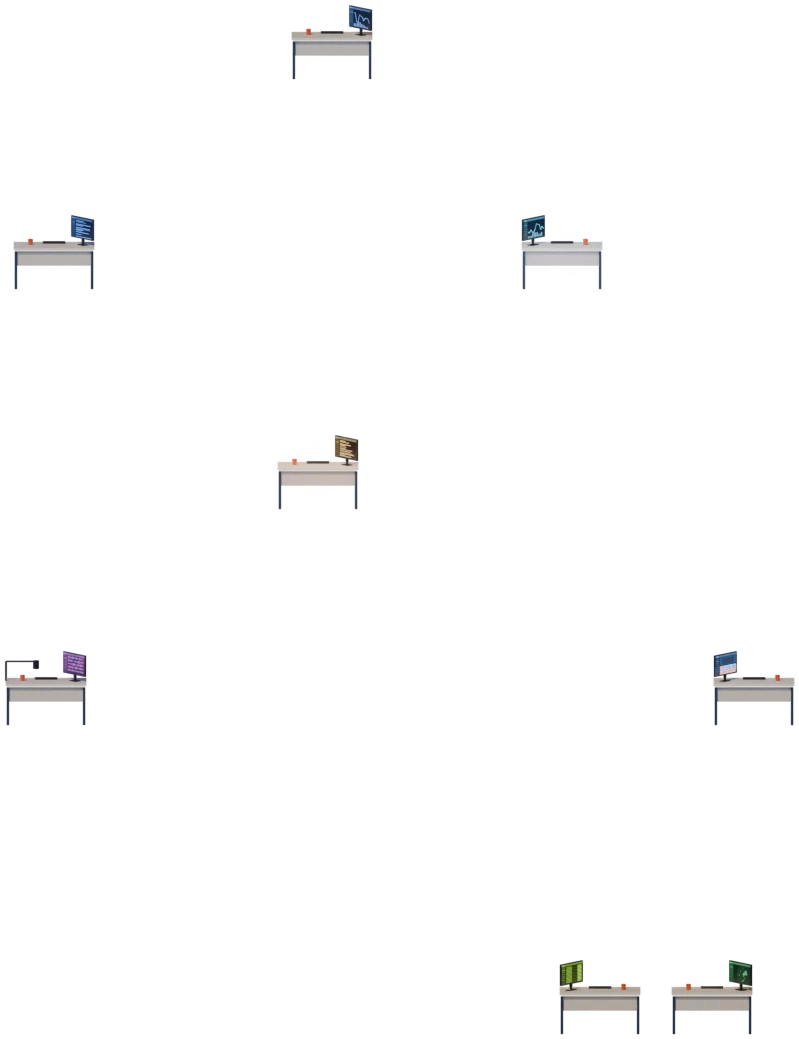
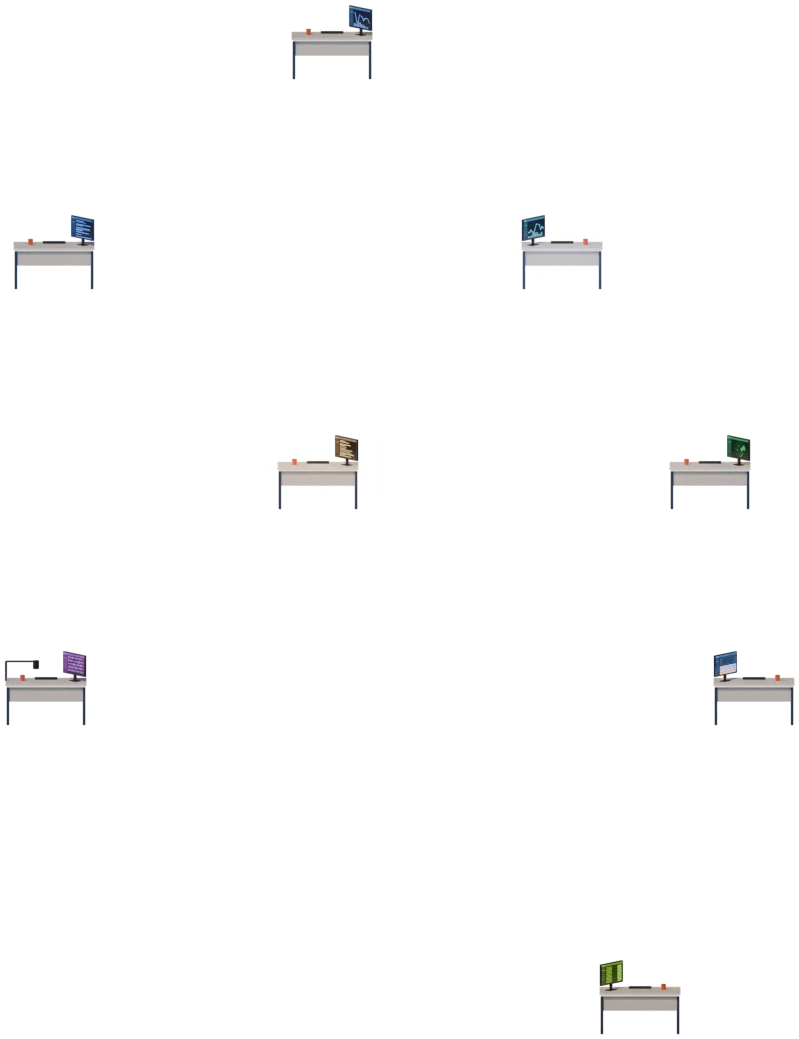
Every department its own office, in its own colour
L3 splits into Research (blue) and Fact Check (terracotta), L2 into Content (wood) and Distribution (teal, Vera's desk and the release radar), S2 is Treasury alone (burgundy). Each room has a lit department sign. The backend layout gains factcheck_room and moves publish_desk to floor 2; the fact-check stage walks to its own room. 746 backend and 82 frontend tests pass; the server needs a restart to serve the new zones.

Changed region(s): [[0.6909, 0.924, 0.9612, 1.0], [0.8411, 0.4004, 0.9612, 0.4928]]

diff --git a/frontend/src/office_state.js b/frontend/src/office_state.js
@@ -20,7 +20,7 @@ const STAGE_ZONES = {
   DISCOVERY: 'director_suite',
   IDEA_SELECTION: 'director_suite',
   RESEARCH: 'research_lab',
-  FACT_CHECK: 'research_lab',
+  FACT_CHECK: 'factcheck_room',
   SCRIPTING: 'script_room',
   HOOK_OPTIMIZATION: 'script_room',
   STORYBOARD: 'script_room',

diff --git a/art-source/blender/hq/hq_building.py b/art-source/blender/hq/hq_building.py
@@ -345,6 +345,14 @@ def cove(mb, x0px, x1px, level, mat, drop=0.5, back=BACK):
     mb.box(X(x0px), X(x1px), back - 0.12, back - 0.02, z - 0.035, z, mat)
 
 
+def room_sign(coll, glow, label, x0px, level, mat, accent):
+    """A small lit sign at the top of a room's back wall, naming the department that works there."""
+    z = wz(FLOORS[level][1] + 24)
+    key = label.lower().replace(" ", "_")
+    glow.box(X(x0px), X(x0px) + 0.08, BACK - 0.06, BACK - 0.02, z - 0.04, z + 0.5, emissive(f"sign_bar_{key}", accent, 5.0))
+    text(coll, label, X(x0px) + 0.26, BACK - 0.07, z + 0.42, 0.5, mat["label_text"], spacing=1.12, name=f"room_sign_{key}", face="bold")
+
+
 def room_rect(zone_id, x0px, x1px, level, name):
     f = FLOORS[level]
     ANCHORS["rooms"][zone_id] = {"x": x0px, "y": f[1], "w": x1px - x0px, "h": f[0] - f[1], "level": level, "name": name}
@@ -568,14 +576,19 @@ def build_l4(rooms, props, leaves, pots, fronts, glow, lights, back, shell_c, ma
 
 def build_l3(rooms, props, leaves, pots, fronts, glow, lights, back, shell_c, mat):
     lv = 3
-    room_rect("research_lab", 517, 1205, lv, "L3 Research")
+    room_rect("research_lab", 517, 862, lv, "L3 Research")
+    room_rect("factcheck_room", 868, 1205, lv, "L3 Fact Check")
     wall = principled("wall_l3", "#4b5a88", rough=0.85)
     floor = principled("floor_l3", "#2a2c3c", rough=0.35)
-    room_shell(rooms, 517, 1205, lv, wall, floor)
+    room_shell(rooms, 517, 862, lv, wall, floor)
+    room_shell(rooms, 862, 1205, lv, principled("wall_l3_factcheck", "#8a4f3a", rough=0.85), principled("floor_l3_factcheck", "#3a2a24", rough=0.35))
+    rooms.box(X(862), X(868), -0.2, BACK + 0.2, fz(lv), cz(lv), mat["frame"])
     label_panel(rooms, shell_c, lv, "L3", "RESEARCH", mat)
+    room_sign(shell_c, glow, "RESEARCH", 527, lv, mat, "#60a5fa")
+    room_sign(shell_c, glow, "FACT CHECK", 878, lv, mat, "#fb923c")
     f = fz(lv)
-    downlight_fixtures(glow, (560, 650, 770, 860, 960, 1060, 1150), lv, mat)
-    spot_row(lights, (560, 650, 770, 860, 960, 1060, 1150), lv, "#f0f2ff", 220, cone=58, blend=0.5, tilt=26)
+    downlight_fixtures(glow, (560, 650, 760, 845, 900, 990, 1080, 1160), lv, mat)
+    spot_row(lights, (560, 650, 760, 845, 900, 990, 1080, 1160), lv, "#f0f2ff", 220, cone=58, blend=0.5, tilt=26)
     light(lights, "AREA", (X(860), 0.4, cz(lv) - 0.9), 110.0, "#c8d0ff", radius=9.0, rot=(math.radians(35), 0, 0), name="l3_fill")
     plant(leaves, pots, X(530), 1.6, f, 0.9, mat["leaf"], mat["pot_white"], pot_h=0.32, pot_r=0.15, n=12, seed=31)
     bookshelf(props, X(537), X(587), 1.85, 2.35, f, f + 1.8, mat["wood_dark"], mat["books"], shelves=5, seed=3)
@@ -594,28 +607,29 @@ def build_l3(rooms, props, leaves, pots, fronts, glow, lights, back, shell_c, ma
         props.box(X(xp), X(xp + 14), 1.8, 2.3, f, f + 0.95, principled("tower_pc", "#1b1c22", rough=0.4))
         glow.box(X(xp + 4), X(xp + 5), 1.79, 1.8, f + 0.7, f + 0.85, emissive("pc_led_blue", "#60a5fa", 8.0))
     cork = principled("cork", "#8a6a44", rough=0.9)
-    props.box(X(772), X(877), BACK - 0.06, BACK - 0.02, wz(247), wz(207), mat["wood_dark"])
-    props.front_quad(X(775), X(874), wz(245), wz(209), BACK - 0.065, cork)
+    props.box(X(745), X(850), BACK - 0.06, BACK - 0.02, wz(247), wz(207), mat["wood_dark"])
+    props.front_quad(X(748), X(847), wz(245), wz(209), BACK - 0.065, cork)
     rng = random.Random(7)
     paper = emissive("paper", "#efe9dc", 0.6)
     pin_ink = principled("pin_ink", "#3b4a66", rough=0.6)
     for r in range(2):
         for c in range(3):
-            x0 = 782 + c * 31 + rng.uniform(-2, 2)
+            x0 = 755 + c * 31 + rng.uniform(-2, 2)
             z1 = wz(213 + r * 17)
             props.front_quad(X(x0), X(x0 + 22), z1 - M(12), z1, BACK - 0.07, paper)
             # the notes carry lines of writing, as the picture's pinboard does
             for li in range(3):
                 zl = z1 - M(3) - li * M(3)
                 props.box(X(x0 + 3), X(x0 + 3 + rng.uniform(10, 17)), BACK - 0.076, BACK - 0.072, zl - 0.02, zl, pin_ink)
-    top2 = back_desk(props, 770, 975, lv, mat)
+    top_r = back_desk(props, 770, 850, lv, mat)
+    props.box(X(790), X(830), 1.9, 2.25, top_r, top_r + 0.18, mat["white"])
+    top2 = back_desk(props, 880, 975, lv, mat)
     for cx, scr in ((905, "screen_cyan"), (933, "screen_cyan_chart")):
         monitor(props, X(cx), 2.05, top2, M(24), 0.46, mat["mon_frame"], mat[scr])
-    props.box(X(790), X(830), 1.9, 2.25, top2, top2 + 0.18, mat["white"])
-    screen_anchor("factcheck_monitors", X(893), X(945), top2 + 0.12, top2 + 0.58, 2.03, zone="research_lab", desk="desk_research_2")
+    screen_anchor("factcheck_monitors", X(893), X(945), top2 + 0.12, top2 + 0.58, 2.03, zone="factcheck_room", desk="desk_research_2")
     frame_picture(props, X(936), wz(230), BACK - 0.02, M(24), M(30), mat["black"], image_material("poster_l3b", "art_teal", 0.8))
-    workstation(fronts, props, 926, lv, mat, "ui_cyan_chart", "research_lab", "desk_research_2", side=-1)
-    seat("desk_research_2", 926, lv, "front", "research_lab")
+    workstation(fronts, props, 926, lv, mat, "ui_cyan_chart", "factcheck_room", "desk_research_2", side=-1)
+    seat("desk_research_2", 926, lv, "front", "factcheck_room")
     wb = principled("whiteboard", "#e4e2da", rough=0.5)
     props.box(X(970), X(1002), BACK - 0.06, BACK - 0.02, wz(252), wz(208), mat["metal"])
     props.front_quad(X(972), X(1000), wz(250), wz(210), BACK - 0.065, wb)
@@ -640,14 +654,21 @@ def build_l3(rooms, props, leaves, pots, fronts, glow, lights, back, shell_c, ma
 
 def build_l2(rooms, props, leaves, pots, fronts, glow, lights, back, shell_c, mat):
     lv = 2
-    room_rect("script_room", 517, 1205, lv, "L2 Content")
+    room_rect("script_room", 517, 862, lv, "L2 Content")
+    room_rect("publish_desk", 868, 1205, lv, "L2 Distribution")
     wall = panel_material("wall_l2", "#5e4a2c", "#2e2210", 0.42, rough=0.45)
     floor = principled("floor_l2", "#3a2a1c", rough=0.3)
-    room_shell(rooms, 517, 1205, lv, wall, floor)
+    room_shell(rooms, 517, 862, lv, wall, floor)
+    room_shell(rooms, 862, 1205, lv, panel_material("wall_l2_distribution", "#1f5f5a", "#0e2f2c", 0.42, rough=0.45), principled("floor_l2_distribution", "#1c2a2a", rough=0.3))
+    rooms.box(X(862), X(868), -0.2, BACK + 0.2, fz(lv), cz(lv), mat["frame"])
     label_panel(rooms, shell_c, lv, "L2", "CONTENT", mat)
+    room_sign(shell_c, glow, "CONTENT", 527, lv, mat, "#fbbf24")
+    room_sign(shell_c, glow, "DISTRIBUTION", 878, lv, mat, "#2dd4bf")
     f = fz(lv)
-    cove(glow, 525, 1195, lv, mat["edge_led"], drop=0.42)
-    for xp in (534, 620, 712, 800, 872, 950, 1030, 1150):
+    cove(glow, 525, 855, lv, mat["edge_led"], drop=0.42)
+    cove(glow, 875, 1195, lv, mat["edge_led"], drop=0.42)
+    # clear of the CONTENT and DISTRIBUTION signs at the top of each room
+    for xp in (660, 740, 820, 1040, 1110, 1180):
         pendant(props, lights, xp, lv, 0.62, mat, energy=26, color="#ffd9a8")
     light(lights, "AREA", (X(860), 0.6, cz(lv) - 0.8), 60.0, "#ffc27a", radius=8.0, rot=(math.radians(35), 0, 0), name="l2_fill")
     plant(leaves, pots, X(538), 1.6, f, 0.9, mat["leaf"], mat["pot_white"], pot_h=0.35, pot_r=0.15, n=12, seed=21)
@@ -662,18 +683,24 @@ def build_l2(rooms, props, leaves, pots, fronts, glow, lights, back, shell_c, ma
         props.box(X(x0), X(x0 + 70), 1.1, 1.4, f + 0.42, f + 0.46, mat["metal"])
         for xl in (x0 + 2, x0 + 66):
             props.box(X(xl), X(xl) + 0.04, 1.2, 1.3, f, f + 0.42, mat["metal"])
-    top = back_desk(props, 700, 905, lv, mat)
+    top = back_desk(props, 700, 850, lv, mat)
     for cx, tex in ((784, "ui_script"), (826, "ui_blue")):
         monitor(props, X(cx), 2.05, top, M(40), 0.72, mat["mon_frame"], image_material(f"script_{tex}", tex, 1.5))
     screen_anchor("script_monitors", X(764), X(846), top + 0.12, top + 0.84, 2.03, zone="script_room", desk="desk_script")
-    for sx in (756, 854):
+    for sx in (756, 836):
         props.box(X(sx), X(sx + 9), 1.95, 2.25, top, top + 0.42, mat["black"])
         glow.box(X(sx + 3), X(sx + 6), 1.94, 1.95, top + 0.28, top + 0.36, emissive("spk_led", "#93c5fd", 5.0))
     props.box(X(776), X(836), BACK - 0.06, BACK - 0.02, wz(330), wz(301), mat["mon_frame"])
     props.front_quad(X(778), X(834), wz(328), wz(303), BACK - 0.065, image_material("script_tv", "art_night", 0.9))
-    plant(leaves, pots, X(890), 2.05, top, 0.4, mat["leaf"], mat["pot_white"], pot_h=0.16, pot_r=0.08, n=8, seed=22, style="bush")
+    plant(leaves, pots, X(716), 2.05, top, 0.4, mat["leaf"], mat["pot_white"], pot_h=0.16, pot_r=0.08, n=8, seed=22, style="bush")
     workstation(fronts, props, 804, lv, mat, "ui_script", "script_room", "desk_script", side=1)
     seat("desk_script", 804, lv, "front", "script_room")
+    # Distribution: Vera's desk and the release radar on the wall above the sofa
+    workstation(fronts, props, 1000, lv, mat, "ui_radar", "publish_desk", "desk_publish", side=1)
+    seat("desk_publish", 1000, lv, "front", "publish_desk")
+    props.box(X(1100), X(1142), BACK - 0.08, BACK - 0.02, wz(350), wz(318), mat["mon_frame"])
+    props.front_quad(X(1103), X(1139), wz(348), wz(320), BACK - 0.085, image_material("radar", "ui_radar", 1.5))
+    screen_anchor("publish_radar", X(1103), X(1139), wz(348), wz(320), BACK - 0.085, zone="publish_desk", desk="desk_publish")
     frame_picture(props, X(898), wz(336), BACK - 0.02, M(23), M(32), mat["black"], image_material("art_l2b", "art_teal", 0.8))
     plant(leaves, pots, X(928), 1.8, f, 0.85, mat["leaf"], mat["pot_white"], pot_h=0.35, pot_r=0.15, n=11, seed=23)
     wall_window(props, 940, 990, 320, 362, mat)
@@ -771,7 +798,7 @@ def build_ground(shell, rooms, props, leaves, pots, fronts, glow, lights, back, 
     shell.box(X(415), X(1340), -0.3, -0.28, -0.12, -0.08, mat["edge_led"])
     # header bars
     header = principled("header_bar", "#191c27", rough=0.4)
-    for zone, x0, x1, label in (("server_corner", 455, 637, "S1   INFRA"), ("ops", 897, 1032, "S2   OPERATIONS"), ("ai_space", 1040, 1197, "S3   AI SPACE")):
+    for zone, x0, x1, label in (("server_corner", 455, 637, "S1   INFRA"), ("treasury", 897, 1032, "S2   TREASURY"), ("ai_space", 1040, 1197, "S3   AI SPACE")):
         shell.box(X(x0), X(x1), -0.22, 0.1, Z(541), c, header)
         shell.box(X(x0), X(x1), -0.23, -0.22, Z(541), Z(540), mat["frame_hi"])
         text(shell_c, label, X(x0 + 8), -0.24, Z(537, -0.24), 0.52, mat["label_text"], name=f"header_{zone}")
@@ -842,11 +869,10 @@ def build_ground(shell, rooms, props, leaves, pots, fronts, glow, lights, back, 
     pendant(props, lights, 868, 0, 1.2, mat, shade="bulb", energy=30)
     for x0, x1 in ((647, 700), (702, 760), (762, 790), (792, 845), (847, 884)):
         shell.front_quad(X(x0), X(x1), 0.0, Z(532), -0.16, mat["glass"])
-    # ---------------- S2 OPERATIONS (finance and publishing)
-    room_rect("accounting_office", 897, 965, 0, "S2 Operations - Treasury")
-    room_rect("publish_desk", 965, 1032, 0, "S2 Operations - Distribution")
-    rooms.box(X(897), X(1032), BACK_G, BACK_G + 0.2, f, c, principled("ops_wall", "#6e583f", rough=0.6))
-    rooms.box(X(897), X(1032), -0.1, BACK_G, -0.05, 0.0, principled("ops_floor", "#5a4a3a", rough=0.25))
+    # ---------------- S2 TREASURY (Nadia's office; Distribution has its own room on L2)
+    room_rect("accounting_office", 897, 1032, 0, "S2 Treasury")
+    rooms.box(X(897), X(1032), BACK_G, BACK_G + 0.2, f, c, principled("ops_wall", "#5c2a33", rough=0.6))
+    rooms.box(X(897), X(1032), -0.1, BACK_G, -0.05, 0.0, principled("ops_floor", "#3a2226", rough=0.25))
     props.box(X(945), X(1002), BACK_G - 0.4, BACK_G, Z(566, BACK_G - 0.4), Z(563, BACK_G - 0.4), mat["wood"])
     rng = random.Random(21)
     for i in range(5):
@@ -866,17 +892,14 @@ def build_ground(shell, rooms, props, leaves, pots, fronts, glow, lights, back, 
     plant(leaves, pots, X(1016), BACK_G - 0.5, Z(590, BACK_G - 0.5), 0.6, mat["leaf"], mat["pot_white"], pot_h=0.25, pot_r=0.12, n=10, seed=53)
     props.box(X(1004), X(1030), BACK_G - 0.45, BACK_G - 0.4, Z(590, BACK_G - 0.45) - 0.05, Z(590, BACK_G - 0.45), mat["wood"])
     props.box(X(1003), X(1029), BACK_G - 0.08, BACK_G - 0.02, Z(624, BACK_G), Z(600, BACK_G), mat["mon_frame"])
-    props.front_quad(X(1005), X(1027), Z(622, BACK_G), Z(602, BACK_G), BACK_G - 0.085, image_material("radar", "ui_radar", 1.5))
-    screen_anchor("publish_radar", X(1005), X(1027), Z(622, BACK_G), Z(602, BACK_G), BACK_G - 0.085, zone="publish_desk", desk="desk_publish")
+    props.front_quad(X(1005), X(1027), Z(622, BACK_G), Z(602, BACK_G), BACK_G - 0.085, image_material("treasury_chart", "ui_ledger", 1.5))
     props.box(X(930), X(956), 1.9, 2.2, 0.95, 1.0, mat["desk_top"])
     monitor(props, X(943), 2.1, 1.0, M(20), 0.36, mat["mon_frame"], image_material("ledger_screen", "ui_ledger", 1.5))
     screen_anchor("treasury_monitor", X(935), X(951), 1.12, 1.48, 2.098, zone="accounting_office", desk="desk_accounting")
     light(lights, "SPOT", (X(930), 1.5, c - 0.5), 120, "#ffd29a", radius=0.08, cone=70, blend=0.4, rot=(math.radians(20), 0, 0), name="ops_spot_a")
     light(lights, "SPOT", (X(1000), 1.5, c - 0.5), 120, "#ffd29a", radius=0.08, cone=70, blend=0.4, rot=(math.radians(20), 0, 0), name="ops_spot_b")
-    workstation(fronts, props, 945, 0, mat, "ui_ledger", "accounting_office", "desk_accounting", side=-1, seat_y=1.3)
-    seat("desk_accounting", 945, 0, "front", "accounting_office", y=1.3)
-    workstation(fronts, props, 1001, 0, mat, "ui_radar", "publish_desk", "desk_publish", side=1, seat_y=1.3)
-    seat("desk_publish", 1001, 0, "front", "publish_desk", y=1.3)
+    workstation(fronts, props, 965, 0, mat, "ui_ledger", "accounting_office", "desk_accounting", side=-1, seat_y=1.3)
+    seat("desk_accounting", 965, 0, "front", "accounting_office", y=1.3)
     shell.front_quad(X(897), X(1032), 0.0, Z(541), -0.16, mat["glass"])
     # ---------------- S3 AI SPACE (the ad space storefront)
     room_rect("ad_shop", 1040, 1197, 0, "S3 AI Space")

diff --git a/backend/app/office/services.py b/backend/app/office/services.py
@@ -49,12 +49,12 @@ DEFAULT_OFFICE_LAYOUT: dict[str, Any] = {
         },
         {
             "id": "research_lab",
-            "name": "Floor 3 — Research & Fact-Check Lab",
+            "name": "Floor 3 — Research",
             "zone_type": "RESEARCH",
             "floor": 3,
             "x": 517,
             "y": 195,
-            "width": 688,
+            "width": 345,
             "height": 87,
             "color": "#0f3460",
             "desks": [
@@ -65,6 +65,20 @@ DEFAULT_OFFICE_LAYOUT: dict[str, Any] = {
                     "y": 276,
                     "role_name": "Researcher",
                 },
+            ],
+        },
+        {
+            # Every department has its own office (the Owner, 2026-09-13).
+            "id": "factcheck_room",
+            "name": "Floor 3 — Fact Check",
+            "zone_type": "FACT_CHECK",
+            "floor": 3,
+            "x": 868,
+            "y": 195,
+            "width": 337,
+            "height": 87,
+            "color": "#5a2e22",
+            "desks": [
                 {
                     "id": "desk_research_2",
                     "name": "Fact Checker",
@@ -76,12 +90,12 @@ DEFAULT_OFFICE_LAYOUT: dict[str, Any] = {
         },
         {
             "id": "script_room",
-            "name": "Floor 2 — Creative Writing & Narrative Studio",
+            "name": "Floor 2 — Content",
             "zone_type": "SCRIPT",
             "floor": 2,
             "x": 517,
             "y": 297,
-            "width": 688,
+            "width": 345,
             "height": 95,
             "color": "#1e3a8a",
             "desks": [
@@ -91,6 +105,27 @@ DEFAULT_OFFICE_LAYOUT: dict[str, Any] = {
                     "x": 804,
                     "y": 386,
                     "role_name": "ScriptWriter",
+                }
+            ],
+        },
+        {
+            # Distribution has its own office beside Content (the Owner, 2026-09-13).
+            "id": "publish_desk",
+            "name": "Floor 2 — Distribution",
+            "zone_type": "PUBLISH",
+            "floor": 2,
+            "x": 868,
+            "y": 297,
+            "width": 337,
+            "height": 95,
+            "color": "#134e4a",
+            "desks": [
+                {
+                    "id": "desk_publish",
+                    "name": "Release Desk",
+                    "x": 1000,
+                    "y": 386,
+                    "role_name": "Publisher",
                 }
             ],
         },
@@ -180,36 +215,16 @@ DEFAULT_OFFICE_LAYOUT: dict[str, Any] = {
             "floor": 0,
             "x": 897,
             "y": 520,
-            "width": 68,
+            "width": 135,
             "height": 135,
-            "color": "#1f1a2e",
+            "color": "#5c2a33",
             "desks": [
                 {
                     "id": "desk_accounting",
                     "name": "Accountant Desk",
-                    "x": 945,
+                    "x": 965,
                     "y": 648,
                     "role_name": "Accountant",
-                }
-            ],
-        },
-        {
-            "id": "publish_desk",
-            "name": "Ground Floor — Publishing & Distribution",
-            "zone_type": "PUBLISH",
-            "floor": 0,
-            "x": 965,
-            "y": 520,
-            "width": 67,
-            "height": 135,
-            "color": "#14532d",
-            "desks": [
-                {
-                    "id": "desk_publish",
-                    "name": "Release Desk",
-                    "x": 1001,
-                    "y": 648,
-                    "role_name": "Publisher",
                 }
             ],
         },

diff --git a/docs/project/HQ_LIVING_OFFICE.md b/docs/project/HQ_LIVING_OFFICE.md
@@ -11,11 +11,13 @@ workflow token changes floor, and the weather is the live observation or none at
 
 ## What is on screen
 
-- **The building**: roof and AMN-AI sign, L4 Executive, L3 Research, L2 Content, L1 Production
-  (audio booth and render bay), and the ground floor — S1 Infra, the lobby, S2 Operations
-  (treasury and distribution desks) and S3 AI Space (the ad-space storefront). The lift tower
-  on the right carries the courier between floors.
-- **The employees**: eight chibi characters rendered from their Character Bibles (palette from
+- **The building**: roof and AMN-AI sign, L4 Executive, L3 Research (blue) and Fact Check
+  (terracotta), L2 Content (wood) and Distribution (teal), L1 Production (audio booth and render
+  bay), and the ground floor — S1 Infra, the lobby, S2 Treasury (burgundy) and S3 AI Space (the
+  ad-space storefront). Every department has its own office, its own colour and a lit sign, and
+  every employee their own desk facing the viewer. The lift tower on the right carries the courier
+  between floors.
+- **The employees**: eight adult-proportion people (`build_people.py`) from their Character Bibles (palette from
   the backend record; hair, garments and accessories from the Owner's sheets), each seated
   where the backend layout puts their desk, facing the way the reference shows them.
 - **The city**: skyline with a cable-stayed bridge and the "Bucharest AI District" billboard,

diff --git a/docs/project/CHANGELOG.md b/docs/project/CHANGELOG.md
@@ -1,5 +1,21 @@
 # Changelog
 
+## Every department its own office, in its own colour — 2026-09-13
+
+The Owner pointed at S2 on the live page: the accountant and the publisher sat side by side in one
+room. His rule: separate offices, one per department, each in a different colour. He chose where
+Distribution goes and that Research and Fact Check part as well.
+
+- **L3** is two rooms with a partition: Research (blue, Aris) and Fact Check (terracotta, Elena).
+- **L2** is two rooms: Content (wood, Marcus) and Distribution (teal, Vera, with her desk and the
+  release radar on the wall).
+- **S2** on the ground floor is the Treasury alone (burgundy, Nadia, her desk in the middle, the
+  sign reads "S2 TREASURY").
+- Each room has a lit sign naming its department. The backend layout has the new zones
+  (`factcheck_room`, `publish_desk` on floor 2, a wider `accounting_office`) and the fact-check
+  stage walks to the Fact Check room; the scene's manifest and the layout are checked against each
+  other by `tests/test_office_layout_matches_scene.py`. The server needs a restart to serve them.
+
 ## The headquarters in Unreal Engine 5.8 — 2026-09-13
 
 The Owner asked for Unreal Engine. The headquarters now renders there from the Blender build
